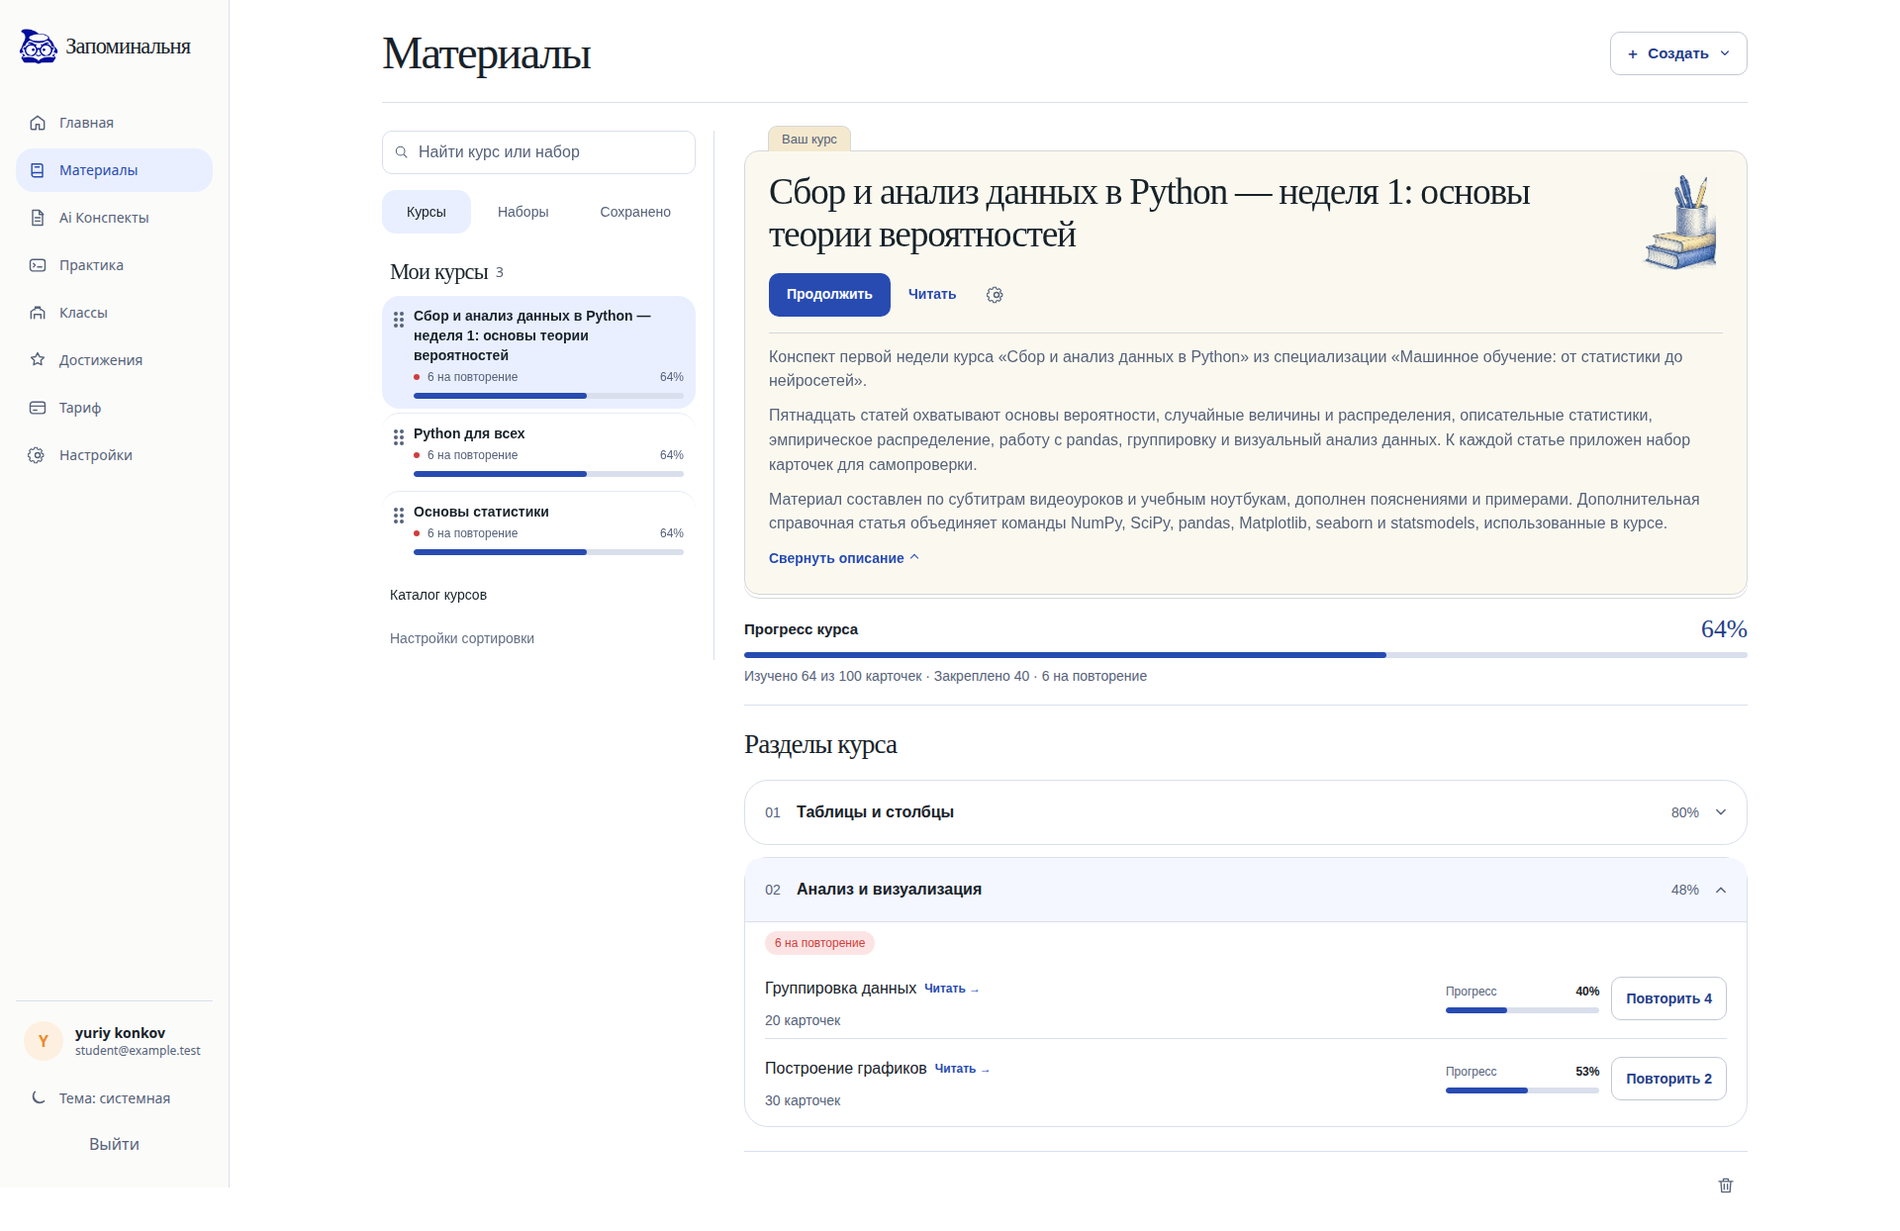
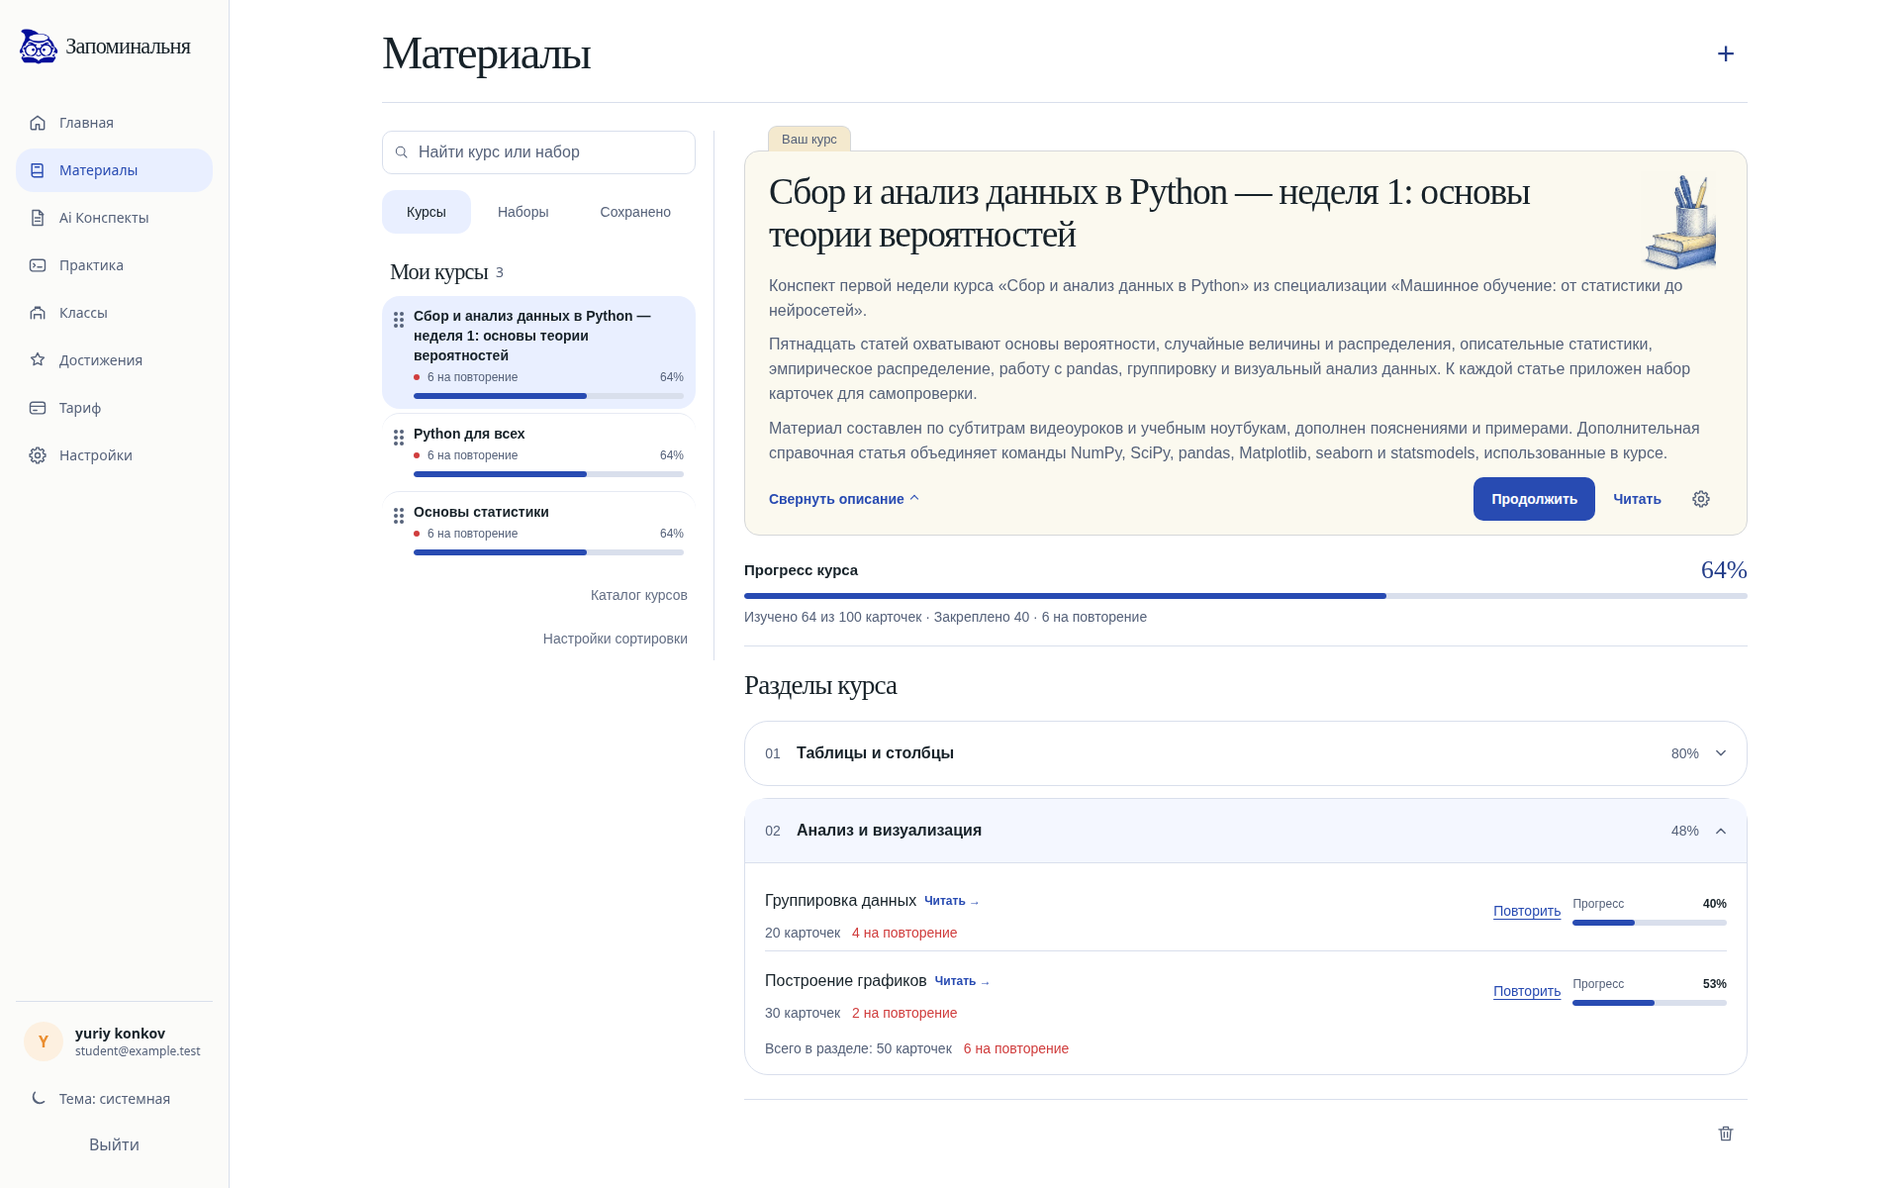
Обновил действия курса и строки уроков

diff --git a/apps/app/src/pages/MaterialsPage.tsx b/apps/app/src/pages/MaterialsPage.tsx
@@ -1,4 +1,5 @@
 import type { components } from '@remora/api-client';
+import { pluralWithCount } from '@remora/core';
 import { Badge, Button, Input } from '@remora/ui';
 import { useMutation, useQueries, useQuery, useQueryClient } from '@tanstack/react-query';
 import {
@@ -463,9 +464,7 @@ export function MaterialsPage() {
                 </TreeGroup>
                 <nav className="material-course-links" aria-label="Навигация по курсам">
                   <a href={courseCatalogUrl}>Каталог курсов</a>
-                  <Link className="material-sort-link" to="/courses/manage">
-                    Настройки сортировки
-                  </Link>
+                  <Link to="/courses/manage">Настройки сортировки</Link>
                 </nav>
               </>
             )}
@@ -670,35 +669,36 @@ function CourseNavigator({
           <Link to={`/courses/${course.id}/read`}>{course.title}</Link>
         </h2>
         {course.author && <p className="text-fg-muted mt-2 text-sm">Автор: {course.author}</p>}
-        <div className="material-actions">
-          <CourseActionLink
-            className="material-primary"
-            to={`/courses/${course.id}/learn`}
-            description="Продолжить тренировку по карточкам курса"
-          >
-            Продолжить
-          </CourseActionLink>
-          <CourseActionLink to={`/courses/${course.id}/read`} description="Открыть статьи курса">
-            Читать
-          </CourseActionLink>
-          {!course.saved && (
-            <CourseActionLink
-              className="material-settings"
-              to={`/courses/${course.id}/edit`}
-              label="Настроить курс"
-              description="Открыть редактор курса"
-            >
-              <SettingsIcon />
-            </CourseActionLink>
-          )}
-        </div>
         {course.hasUpdates && course.saveId && (
           <div className="mt-2">
             <Badge tone="warning">Есть обновление</Badge>
             <LibraryUpdateControl saveId={course.saveId} title={course.title} />
           </div>
         )}
-        <MaterialDescription description={course.description} />
+        <MaterialDescription description={course.description}>
+          <div className="material-actions">
+            <CourseActionLink
+              className="material-primary"
+              to={`/courses/${course.id}/learn`}
+              description="Продолжить тренировку по карточкам курса"
+            >
+              Продолжить
+            </CourseActionLink>
+            <CourseActionLink to={`/courses/${course.id}/read`} description="Открыть статьи курса">
+              Читать
+            </CourseActionLink>
+            {!course.saved && (
+              <CourseActionLink
+                className="material-settings"
+                to={`/courses/${course.id}/edit`}
+                label="Настроить курс"
+                description="Открыть редактор курса"
+              >
+                <SettingsIcon />
+              </CourseActionLink>
+            )}
+          </div>
+        </MaterialDescription>
       </section>
       <section className="material-study-stats">
         <div className="flex items-center justify-between gap-3">
@@ -740,9 +740,6 @@ function CourseNavigator({
                   <Chevron className="text-fg-subtle h-5 w-5 transition-transform group-open:rotate-180" />
                 </summary>
                 <div className="border-border border-t px-3 py-2 sm:px-5">
-                  <div className="mb-1">
-                    <LearningStatus progress={sectionProgress} compact />
-                  </div>
                   {section.articles.map((article) => (
                     <ArticleProgressRow
                       key={article.id}
@@ -756,6 +753,19 @@ function CourseNavigator({
                       }
                     />
                   ))}
+                  {section.articles.length !== 1 && (
+                    <p className="text-fg-muted flex flex-wrap items-baseline gap-x-3 py-2 text-sm">
+                      <span>
+                        Всего в разделе:{' '}
+                        {pluralWithCount(sectionProgress.cardsTotal, [
+                          'карточка',
+                          'карточки',
+                          'карточек',
+                        ])}
+                      </span>
+                      <LearningStatus progress={sectionProgress} inline />
+                    </p>
+                  )}
                 </div>
               </details>
             );
@@ -1164,8 +1174,8 @@ function ArticleProgressRow({
   progress: MaterialProgress;
 }) {
   return (
-    <div className="border-border grid gap-3 border-b py-2 last:border-0 sm:grid-cols-[minmax(0,1fr)_minmax(70px,16%)_auto] sm:items-center">
-      <div className="min-w-0">
+    <div className="border-border grid grid-cols-[auto_minmax(0,1fr)] items-center gap-x-3 border-b py-2 last-of-type:border-0 sm:grid-cols-[minmax(0,1fr)_auto_minmax(70px,16%)]">
+      <div className="col-span-full min-w-0 sm:col-span-1">
         <Link
           to={`/courses/${courseId}/read?article=${articleId}`}
           className="group/read focus-visible:outline-primary flex min-h-11 min-w-0 items-center gap-2 rounded-lg font-medium focus-visible:outline focus-visible:outline-2"
@@ -1174,8 +1184,14 @@ function ArticleProgressRow({
           <span className="group-hover/read:text-primary break-words">{title}</span>
           <span className="text-primary shrink-0 text-xs font-semibold">Читать →</span>
         </Link>
-        <p className="text-fg-muted text-sm">{progress.cardsTotal} карточек</p>
+        <p className="text-fg-muted flex flex-wrap items-baseline gap-x-3 text-sm">
+          <span>{pluralWithCount(progress.cardsTotal, ['карточка', 'карточки', 'карточек'])}</span>
+          <LearningStatus progress={progress} inline />
+        </p>
       </div>
+      <Link className="material-repeat" to={`/courses/${courseId}/learn`}>
+        {progress.dueNow > 0 ? 'Повторить' : 'Учить'}
+      </Link>
       <div>
         <div className="flex items-center justify-between text-xs">
           <span className="text-fg-muted">Прогресс</span>
@@ -1185,9 +1201,6 @@ function ArticleProgressRow({
         </div>
         <ProgressBar progress={progress} className="mt-2" />
       </div>
-      <Link className="material-repeat" to={`/courses/${courseId}/learn`}>
-        {progress.dueNow > 0 ? `Повторить ${progress.dueNow}` : 'Учить'}
-      </Link>
     </div>
   );
 }
@@ -1254,27 +1267,30 @@ function DragHandle() {
   );
 }
 
+const statusStyles = {
+  urgent: ['text-danger', 'bg-danger-subtle'],
+  weak: ['text-warning', 'bg-warning-subtle'],
+  learning: ['text-primary', 'bg-primary-subtle'],
+  good: ['text-success', 'bg-success-subtle'],
+  new: ['text-fg-muted', 'bg-surface-muted'],
+} as const;
+
 function LearningStatus({
   progress,
-  compact = false,
+  inline = false,
 }: {
   progress: MaterialProgress;
-  compact?: boolean;
+  inline?: boolean;
 }) {
   const status = learningStatus(progress);
-  const tone =
-    status.kind === 'urgent'
-      ? 'text-danger bg-danger-subtle'
-      : status.kind === 'weak'
-        ? 'text-warning bg-warning-subtle'
-        : status.kind === 'learning'
-          ? 'text-primary bg-primary-subtle'
-          : status.kind === 'good'
-            ? 'text-success bg-success-subtle'
-            : 'text-fg-muted bg-surface-muted';
+  const [color, background] = statusStyles[status.kind];
   return (
     <span
-      className={`inline-flex items-center rounded-full px-2.5 py-1 font-medium ${compact ? 'text-xs' : 'text-sm'} ${tone}`}
+      className={
+        inline
+          ? color
+          : `${color} ${background} inline-flex items-center rounded-full px-2.5 py-1 text-sm font-medium`
+      }
     >
       {status.label}
     </span>
@@ -1380,8 +1396,8 @@ function ManagementLink({ to, children }: { to: string; children: ReactNode }) {
 function CreateMenu({ onCreateSet }: { onCreateSet: () => void }) {
   return (
     <details className="group relative">
-      <summary className="materials-create" aria-label="Создать материал">
-        <span aria-hidden="true">＋</span> Создать <Chevron className="h-4 w-4" />
+      <summary className="materials-create" aria-label="Создать материал" title="Создать материал">
+        <span aria-hidden="true">+</span>
       </summary>
       <div className="border-border bg-surface shadow-pop absolute right-0 z-20 mt-2 w-48 rounded-xl border p-1.5">
         <Link

diff --git a/apps/app/src/pages/materials.css b/apps/app/src/pages/materials.css
@@ -26,27 +26,22 @@
 .materials-heading h1 {
   font-size: clamp(2rem, 3.2vw, 2.9rem);
 }
-.materials-create,
-.material-repeat {
+.materials-create {
   list-style: none;
-  display: inline-flex;
-  align-items: center;
-  justify-content: center;
-  gap: 8px;
-  min-height: 44px;
-  border: 1px solid rgb(var(--rm-reading-rule) / 0.65);
+  display: grid;
+  place-items: center;
+  width: 44px;
+  height: 44px;
   border-radius: 10px;
   color: rgb(var(--rm-lecture-blue));
-  padding: 0 14px;
-  font-size: 0.9375rem;
-  font-weight: 600;
+  font-size: 2rem;
+  line-height: 1;
   cursor: pointer;
 }
 .materials-create::-webkit-details-marker {
   display: none;
 }
-.materials-create:hover,
-.material-repeat:hover {
+.materials-create:hover {
   background: rgb(var(--rm-primary-subtle));
 }
 .materials-page summary:focus-visible {
@@ -78,14 +73,12 @@
 }
 .material-course-links a {
   display: flex;
+  justify-content: end;
   align-items: center;
   min-height: 44px;
   padding-inline: 8px;
   border-radius: 10px;
-  color: rgb(var(--rm-fg));
   font-size: 0.875rem;
-}
-.material-course-links .material-sort-link {
   color: color-mix(in srgb, rgb(var(--rm-fg-muted)) 92%, rgb(var(--rm-surface)));
 }
 .material-course-links a:is(:hover, :focus-visible) {
@@ -101,9 +94,6 @@
   border: 1px solid var(--folder-edge);
   background: rgb(var(--rm-lecture-cream));
   border-radius: 15px;
-  box-shadow:
-    0 3px rgb(var(--rm-surface)),
-    0 4px var(--folder-edge);
 }
 .material-folder h2 {
   font-size: clamp(1.7rem, 2.45vw, 2.35rem);
@@ -138,7 +128,8 @@
   align-items: center;
   flex-wrap: wrap;
   gap: 4px 18px;
-  margin-top: 17px;
+  margin-inline-start: auto;
+  justify-content: flex-end;
 }
 .material-actions a,
 .material-description button {
@@ -210,6 +201,19 @@
   white-space: pre-line;
   line-height: 1.55;
   color: rgb(var(--rm-fg-muted));
+}
+.material-folder .material-description {
+  padding-top: 0;
+  border: 0;
+}
+.material-description-footer {
+  display: flex;
+  align-items: center;
+  flex-wrap: wrap;
+  gap: 4px 16px;
+}
+.material-folder .material-description-text + .material-description-footer {
+  margin-top: 12px;
 }
 .material-folder .material-description-text {
   max-width: none;
@@ -293,6 +297,12 @@
   display: block;
 }
 .material-repeat {
+  display: inline-flex;
+  align-items: center;
+  min-height: 44px;
+  color: rgb(var(--rm-primary));
+  text-decoration: underline;
+  text-underline-offset: 3px;
   font-size: 0.875rem;
   justify-self: start;
 }

diff --git a/apps/app/src/features/materials/MaterialDescription.tsx b/apps/app/src/features/materials/MaterialDescription.tsx
@@ -1,4 +1,4 @@
-import { useId, useState } from 'react';
+import { useId, useState, type ReactNode } from 'react';
 
 const SHORT_DESCRIPTION = 240;
 
@@ -33,29 +33,42 @@ function paragraphs(text: string, opening: string) {
   return parts;
 }
 
-export function MaterialDescription({ description }: { description: string }) {
+export function MaterialDescription({
+  description,
+  children,
+}: {
+  description: string;
+  children?: ReactNode;
+}) {
   const [expanded, setExpanded] = useState(false);
   const id = useId();
   const text = description.trim();
-  if (!text) return null;
+  if (!text && !children) return null;
   const opening = preview(text);
   return (
     <div className="material-description">
-      <div id={id} className="material-description-text">
-        {(expanded ? paragraphs(text, opening) : [opening]).map((paragraph, index) => (
-          <p key={index}>{paragraph}</p>
-        ))}
-      </div>
-      {opening !== text && (
-        <button
-          type="button"
-          aria-expanded={expanded}
-          aria-controls={id}
-          onClick={() => setExpanded(!expanded)}
-        >
-          {expanded ? 'Свернуть описание' : 'Показать полное описание'}
-          <span aria-hidden="true" className="material-caret" />
-        </button>
+      {text && (
+        <div id={id} className="material-description-text">
+          {(expanded ? paragraphs(text, opening) : [opening]).map((paragraph, index) => (
+            <p key={index}>{paragraph}</p>
+          ))}
+        </div>
+      )}
+      {(children || opening !== text) && (
+        <div className="material-description-footer">
+          {opening !== text && (
+            <button
+              type="button"
+              aria-expanded={expanded}
+              aria-controls={id}
+              onClick={() => setExpanded(!expanded)}
+            >
+              {expanded ? 'Свернуть описание' : 'Полное описание'}
+              <span aria-hidden="true" className="material-caret" />
+            </button>
+          )}
+          {children}
+        </div>
       )}
     </div>
   );

diff --git a/apps/app/src/components/SettingsIcon.tsx b/apps/app/src/components/SettingsIcon.tsx
@@ -3,9 +3,9 @@ export function SettingsIcon() {
     <svg className="h-5 w-5 shrink-0" viewBox="0 0 24 24" fill="none" aria-hidden="true">
       <circle cx="12" cy="12" r="3" stroke="currentColor" strokeWidth="1.7" />
       <path
-        d="M19 13.5v-3l-2-.7-.6-1.4.9-1.9-2.1-2.1-1.9.9-1.4-.6-.7-2h-3l-.7 2-1.4.6-1.9-.9-2.1 2.1.9 1.9-.6 1.4-2 .7v3l2 .7.6 1.4-.9 1.9 2.1 2.1 1.9-.9 1.4.6.7 2h3l.7-2 1.4-.6 1.9.9 2.1-2.1-.9-1.9.6-1.4 2-.7Z"
+        d="M9.15,5.12 10.32,4.74 10.50,2.52 13.50,2.52 13.68,4.74 14.85,5.12 15.95,5.68 17.64,4.23 19.77,6.36 18.32,8.05 18.88,9.15 19.26,10.32 21.48,10.50 21.48,13.50 19.26,13.68 18.88,14.85 18.32,15.95 19.77,17.64 17.64,19.77 15.95,18.32 14.85,18.88 13.68,19.26 13.50,21.48 10.50,21.48 10.32,19.26 9.15,18.88 8.05,18.32 6.36,19.77 4.23,17.64 5.68,15.95 5.12,14.85 4.74,13.68 2.52,13.50 2.52,10.50 4.74,10.32 5.12,9.15 5.68,8.05 4.23,6.36 6.36,4.23 8.05,5.68Z"
         stroke="currentColor"
-        strokeWidth="1.4"
+        strokeWidth="1.7"
         strokeLinejoin="round"
       />
     </svg>

diff --git a/apps/app/src/features/materials/MaterialDescription.test.tsx b/apps/app/src/features/materials/MaterialDescription.test.tsx
@@ -17,7 +17,7 @@ it('раскрывает полный текст с абзацами и свор
   const lead = 'Конспект первой недели.';
   const body = 'Работа с таблицами и построение графиков. '.repeat(8).trim();
   render(<MaterialDescription description={lead + '\n\n' + body} />);
-  const toggle = screen.getByRole('button', { name: 'Показать полное описание' });
+  const toggle = screen.getByRole('button', { name: 'Полное описание' });
   expect(screen.getByText(lead)).toBeTruthy();
   expect(screen.queryByText(body)).toBeNull();
   await userEvent.tab();

diff --git a/TODO.md b/TODO.md
@@ -18,6 +18,7 @@
 - [x] Сверстать [«Материалы» с боковым списком](docs/app-redesign/materials/concepts/a-preview.png). Названия видны полностью, описания до 240 знаков показаны целиком, длинные раскрываются под кнопками курса. Проверены обе темы, клавиатура и ширины 320–3840 px.
 - [x] Развернуть заголовок и описание на доступную ширину карточки курса. Статусы разделов видны после раскрытия, число повторов стоит под полосой прогресса. В нижнем правом углу проверены подсказка корзины, отмена и подтверждение удаления на тестовых данных.
 - [x] Укоротить кнопки курса, добавить шестерёнку редактора и подсказки. Расширить список материалов до 336 px, опустить маркеры перетаскивания и поставить ссылку на каталог перед настройками сортировки. В браузере проверены все пять переходов и управление с клавиатуры.
+- [x] Перенести действия курса вниз карточки напротив «Полного описания», упростить кнопку создания и обновить шестерёнку. В раскрытых разделах статусы стоят рядом с количеством карточек, ссылка «Повторить» — слева от прогресса. Проверены меню, переходы и переносы на ширинах 320–3840 px.
 - [ ] Продумать движение для выбранной композиции А страницы «Материалы».
 
 - [x] Восстановить запуск `pnpm lint` из корня рабочей копии. ESLint пропускает локальные артефакты в `.private/` и проверяет общий скрипт кнопок учебного демо.
